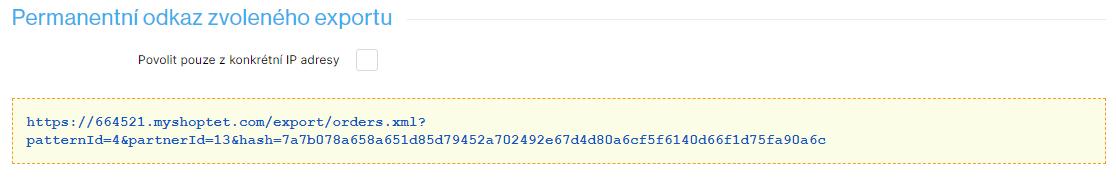
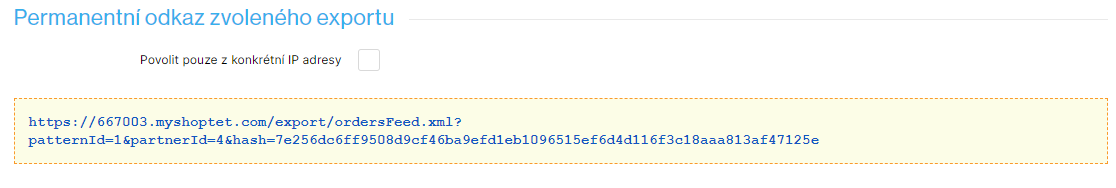
Shoptet application changes. XML Feeds + e-shop admins

diff --git a/docs/application/shoptet.md b/docs/application/shoptet.md
@@ -19,7 +19,7 @@ Jednou z těchto služeb je Balíkuj, což je platforma zaměřená na správu a
 | Stav | ✅ Implementováno |  
 
 
-## Nastavení exportu objednávek ze Shoptetu
+## Nastavení exportu objednávek a produktů ze Shoptetu
 
 Pro efektivní správu vašich zásilek a logistických procesů je klíčové správně nastavit export objednávek ze Shoptetu do platformy Balíkuj. Tento proces vám umožní automatizovat zpracování objednávek, vytváření štítků a sledování zásilek přímo z administrace Balíkuj.
 Aktuálně Balíkuj podporuje export objednávek ze Shoptetu pomocí XML feedu, ale jsme v procesu žádosti o vytvoření **ověřeného doplňku Shoptet**. Bohužel nyní nemáme informace, kdy by mohl být ověřený doplněk Shoptetu schválen.
@@ -137,12 +137,37 @@ Následně v prostředí šablony klikněte na tlačítko **Uložit**.
 
 ### Nastavení zabezpečení exportů
 
-V bočním menu opět vyberte sekci **Nastavení -> Export**. V případě, že nemáte aktivní žádný **přístup pro partnera** se v sekci **Zabezpečení exportů** se může zobrazit následující varování: 
+V bočním menu opět vyberte sekci **Objednávky -> Export**. V případě, že nemáte aktivní žádný **přístup pro partnera** se v sekci **Zabezpečení exportů** se může zobrazit následující varování: 
 
 ![Shoptet - Aktivace](/img/application/shoptet/export-security.png)
 
 Pro správnou funkčnost exportu objednávek do Balíkuj je nutné vytvořit nový **přístup pro partnera**. Tento přístup vytvoříte kliknutím na odkaz **této stránce** ve varovacím poli (viz obrázek varování). 
 Jak správně nastavit **přístup pro partnera** naleznete [zde](/docs/application/shoptet#zabezpečení-exportů).
+
+### Nastavení zahrnutí objednávek
+
+V bočním menu vyberte sekci **Objednávky -> Export**. V sekci **Zahrnout objednávky** vyberte **Jen nové nebo změněné**. 
+Následně vám bude zobrazena další pole. Do těchto polí není potřeba zadávat ani upravovat žádné údaje. Vše by se mělo provádět automaticky viz obrázek níže.
+
+![Shoptet - Aktivace](/img/application/shoptet/export-new-or-edited.png)
+
+:::warning 
+**Upozornění**: Ujistěte se, že při zkopírování finálního odkazu (viz níže v dokumentaci a procesu aktivace aplikace) byla vybrana tato možnost **Jen nové nebo změněné**.
+:::
+
+### Vytvoření exportu produktů
+V administraci Shoptetu otevřete sekci **Nastavení -> Produkty**. Následně Vám bude zobrazena úvodní strana pro export produktů. V sekci **Typ** zaškrtněte možnost **systémový: Kompletní export - XML**.
+
+![Shoptet - Aktivace](/img/application/shoptet/product-export.png)
+
+Následně na této stránce níže naleznete sekci **Permanentní odkaz zvoleného exportu**. Zde prosím zkopírujte odkaz pro export produktů.
+
+![Shoptet - Aktivace](/img/application/shoptet/product-export-link.png)
+
+Nyní přejděte do administrace **Balíkuj**. V horním menu vyberte **Nastavení -> Aplikace**. Zde vyberte vaši **Shoptet** aplikaci a v kartě základní nastavení vložte tento odkaz do sekce **Nastavení XML exportů**, do pole **Adresa XML exportu produktů**.
+Můžete zde také nastavit **Interval aktualizace produktů** - představuje v jakém intervalu aktualizace proběhne (jednou denně, každou hodinu, každé 3 hodiny, atd..).
+
+![Shoptet - Aktivace](/img/application/shoptet/address-xml-product.png)
 
 ## Zabezpečení exportů
 
@@ -163,15 +188,13 @@ Pokud ovšem chcete pro lepší přehlednost vytvořit nového partnera speciál
 
 - Klikněte v pravém horním rohu na tlačítko **Přidat**.
 
-![Shoptet - Aktivace](/img/application/shoptet/create-partner.png)
-
 - Následně se Vám zobrazí okno pro vytvoření nového partnera.
 - Do pole **Název partnera** zadejte název, např. **Balíkuj** 
 - Do pole **Platný do** zadejte také platnost partnera - do kdy bude partner aktivní.
 - Následně klikněte na tlačítko **Přidat**.
-- Aktivujte nově vytvořeného partnera podle postupu popsaného [zde](/docs/application/shoptet#aktivace-partnera).
 
-![Shoptet - Aktivace](/img/application/shoptet/add-partner.png)
+
+![Shoptet - Aktivace](/img/application/shoptet/create-partner.png)
 
 
 ## Přidání aplikace Shoptet do Balíkuj
@@ -194,10 +217,32 @@ Následně se zobrazí okno pro vytvoření nové aplikace. Zde vyplňte **zákl
 
 - **Doména eshopu**: Zadejte doménu nebo označení vašeho e-shopu
 - **Poznámka**: Zadejte libovolnou poznámku, např. **Shoptet**
-- **Adresa XML exportu objednávek**: Zkopírujte odkaz na XML export objednávek ze Shoptetu a vložte jej do tohoto pole
-- **Interval aktualizace objednávek**: Zvolte interval, ve kterém se budou objednávky z Shoptetu aktualizovat v Balíkuj
+- **Nestahovat objednávky ve stavech**: Zde uveďte všechny stavy, ve kterých **nechcete stahovat objednávky**. Např. **Storno, Vráceno, atd..**
 
-![Shoptet - Aktivace](/img/application/shoptet/final-activation.png)
+:::warning
+Prosím dbejte na správné vyplnění stavů, jenž nechcete stahovat objednávky do Balíkuj. Při chybném zadání stavu může dojít k nechtěnému stahování objednávek.
+:::
+
+V sekci **Nastavení XML exportů** naleznete pole pro **Adresu XML exportu objednávek** a **Adresu XML exportu produktů**. Zde vložte **odkazy** z vaší Shoptet administrace.
+
+- Jak správně nastavit **XML export objednávek** naleznete [zde](/docs/application/shoptet#vytvoření-exportu-objednávek).
+- Jak správně nastavit **XML export produktů** naleznete [zde](/docs/application/shoptet#vytvoření-exportu-produktů).
+
+
+V naší aplikaci je také možnost manuální synchronizace. Tuto možnost naleznete v sekci **Manuální Synchronizace**. Zde můžete **ručně spustit** synchronizaci objednávek z vašeho Shoptetu do Balíkuj za vybraný interval.
+
+![Shoptet - Aktivace](/img/application/shoptet/shoptet-activate.png)
+
+V sekci **Nastavení XML exportů** je také tlačítko pro **Aktualizace objednávek na eshopu** (více [zde](/docs/application/shoptet#povolení-aktualizace-objednávek)) . Po zaškrtnutí tohoto tlačítka se zobrazí pole pro zadání údajů správce e-shopu. Pro tuto akci je potřeba **vytvořit nového správce** e-shopu. 
+Zde zadejte následující údaje: 
+
+- **Email** - Zadejte emailovou adresu nového správce obchodu
+- **Heslo** - Zadejte heslo nového správce obchodu
+
+Jak správně vytvořit nového **správce obchodu** naleznete [zde](/docs/application/shoptet#vytvoření-správce-obchodu).
+
+![Shoptet - Aktivace](/img/application/shoptet/allow-updating.png)
+
 
 Kliknutím na **Aktivovat aplikaci** aktivujete aplikaci. Pro zobrazení, zda je aplikace aktivní můžete jít opět do přehledu aplikací přes menu **Nastavení** -> **Aplikace**. Vámi **nově vytvořená** aplikace by se zde měla nacházet.
 
@@ -263,3 +308,34 @@ https://www.myshopteteshop.com/admin/doprava-detail/?id=17
 Všimněte si **čísla** za **id=**. Toto **číslo** či **posloupnost znaků** je **unikátní identifikátor** této dopravy, který budete potřebovat pro vytvoření **vlastního mapování v Balíkuj**. Pro lepší pochopení si můžete prohlédnout následující obrázek:
 
 ![Shoptet - Aktivace](/img/application/shoptet/shoptet-carrier-url.png)
+
+
+## Synchronizace a aktualizace objednávek
+
+Balíkuj umožňuje **automatickou synchronizaci objednávek** z vašeho **Shoptet** e-shopu . Tento proces zajišťuje, že veškeré objednávky, které přicházejí z vašeho e-shopu, jsou **automaticky aktualizovány** v Balíkuj v určitých časových intervalech.
+
+
+### Povolení aktualizace objednávek
+
+Aktualizace objednávek slouží pro synchronizaci mezi administrací Balíkuj a vaším shoptet e-shopem. V sekci **Nastavení XML exportů** naleznete možnost **Povolit aktualizaci objednávek**. Tuto možnost **zaškrtněte**. Následně vám budou zobrazeny dvě pole **Přihlašovací email** a **Heslo**. Zde vyplňte přihlašovací údaje pro nového **správce obchodu**. 
+Jak tohoto správce obchodu vytvořit naleznete v sekci níže.
+
+![Shoptet - Aktivace](/img/application/shoptet/allow-updating.png)
+
+### Vytvoření správce obchodu
+V administraci Shoptetu otevřete sekci **Nastavení -> Administrace -> Správci obchodu**. Bude Vám zobrazena následující stránka:
+
+![Shoptet - Aktivace](/img/application/shoptet/shoptet-admins.png)
+
+Kliknutím na tlačítko **Přidat** budete přesměrování na formulář pro vytvoření nového správce obchodu. Zde vyplňte následující údaje:
+
+- **Jméno a příjmení** - Zadejte jméno a příjmení nového správce obchodu
+- **Email** - Zadejte emailovou adresu nového správce obchodu
+- **Nové heslo** - Zadejte nové heslo pro nového správce obchodu
+- **Potvrzení hesla** - Zopakujte nové heslo pro potvrzení
+- **Současné heslo pro potvrzení** - Zadejte současné heslo pro potvrzení změn
+
+Níže na této stránce nalezněte sekci **Práva uživatele**. Zde v kategorii **Objednávky** zaškrtněte možnost **Přehled** (viz obrázek níže). Kliknutím na tlačítko **Uložit** vytvoříte nového správce obchodu.
+
+![Shoptet - Aktivace](/img/application/shoptet/new-admin.png)
+
